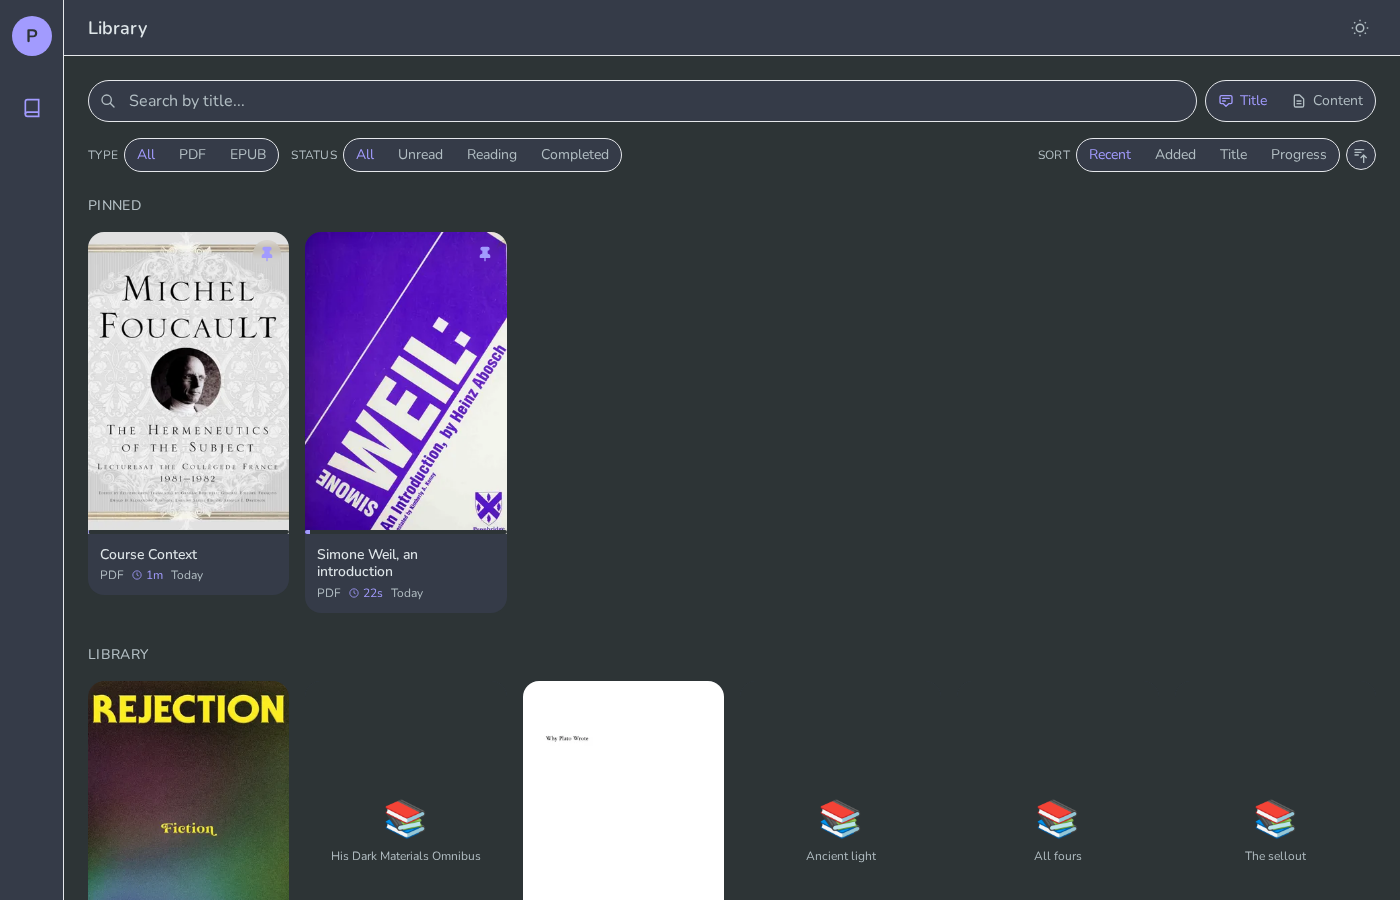
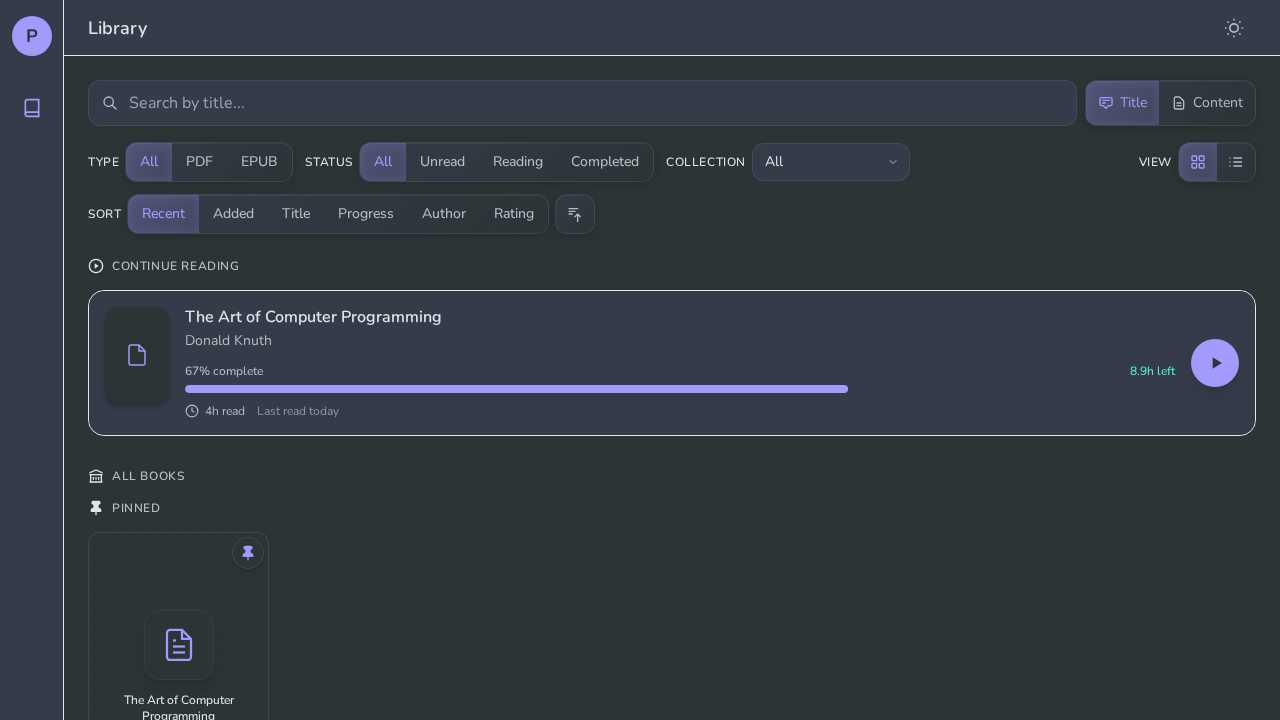
docs: Add screenshots to README
Add dark mode, light mode, and mobile screenshots to the README.
Update library screenshot with current UI styling.

diff --git a/README.md b/README.md
@@ -4,9 +4,29 @@ Self-hosted PDF and EPUB reader that syncs with Obsidian literature notes. Store
 
 Works best with [BibLib](https://github.com/callumalpass/obsidian-biblib), an Obsidian plugin for managing literature notes with bibliographic metadata.
 
-![Library view](screenshots/library.png)
+## Screenshots
 
-![Reader view](screenshots/reader.png)
+### Library
+
+<p>
+  <img src="screenshots/library.png" alt="Library - Dark Mode" width="600">
+</p>
+
+<p>
+  <img src="screenshots/library-light.png" alt="Library - Light Mode" width="600">
+</p>
+
+### Reader
+
+<p>
+  <img src="screenshots/reader.png" alt="PDF Reader" width="600">
+</p>
+
+### Mobile
+
+<p>
+  <img src="screenshots/mobile.png" alt="Mobile View" width="200">
+</p>
 
 ## Features
 
